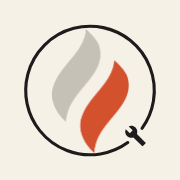
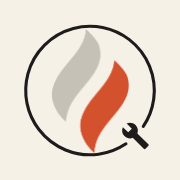
Enlarge the wrench in the service mark by 30%
Ring gap widened to match so the wrench still floats clear of the
ring ends. App icons regenerated.

Claude-Session: https://claude.ai/code/session_01CXFwnDFbYksh3SM5xkGUS4

diff --git a/src/components/ServiceDeskMark.tsx b/src/components/ServiceDeskMark.tsx
@@ -21,13 +21,13 @@ export default function ServiceDeskMark({ className = "h-10" }: { className?: st
       <svg viewBox="0 0 220 250" className="absolute inset-0 h-full w-full" aria-hidden="true">
         {/* Ring broken around the lower-right, where the wrench floats in the gap. */}
         <path
-          d="M171.13 209.14 A104 104 0 1 1 194.14 186.13"
+          d="M168.16 211.22 A104 104 0 1 1 196.22 183.16"
           fill="none"
           stroke="currentColor"
           strokeWidth="5"
           strokeLinecap="round"
         />
-        <g transform="translate(165.5,180.5) scale(1.5)">
+        <g transform="translate(160.1,175.1) scale(1.95)">
           <path d={WRENCH_PATH} fill="currentColor" />
         </g>
       </svg>
